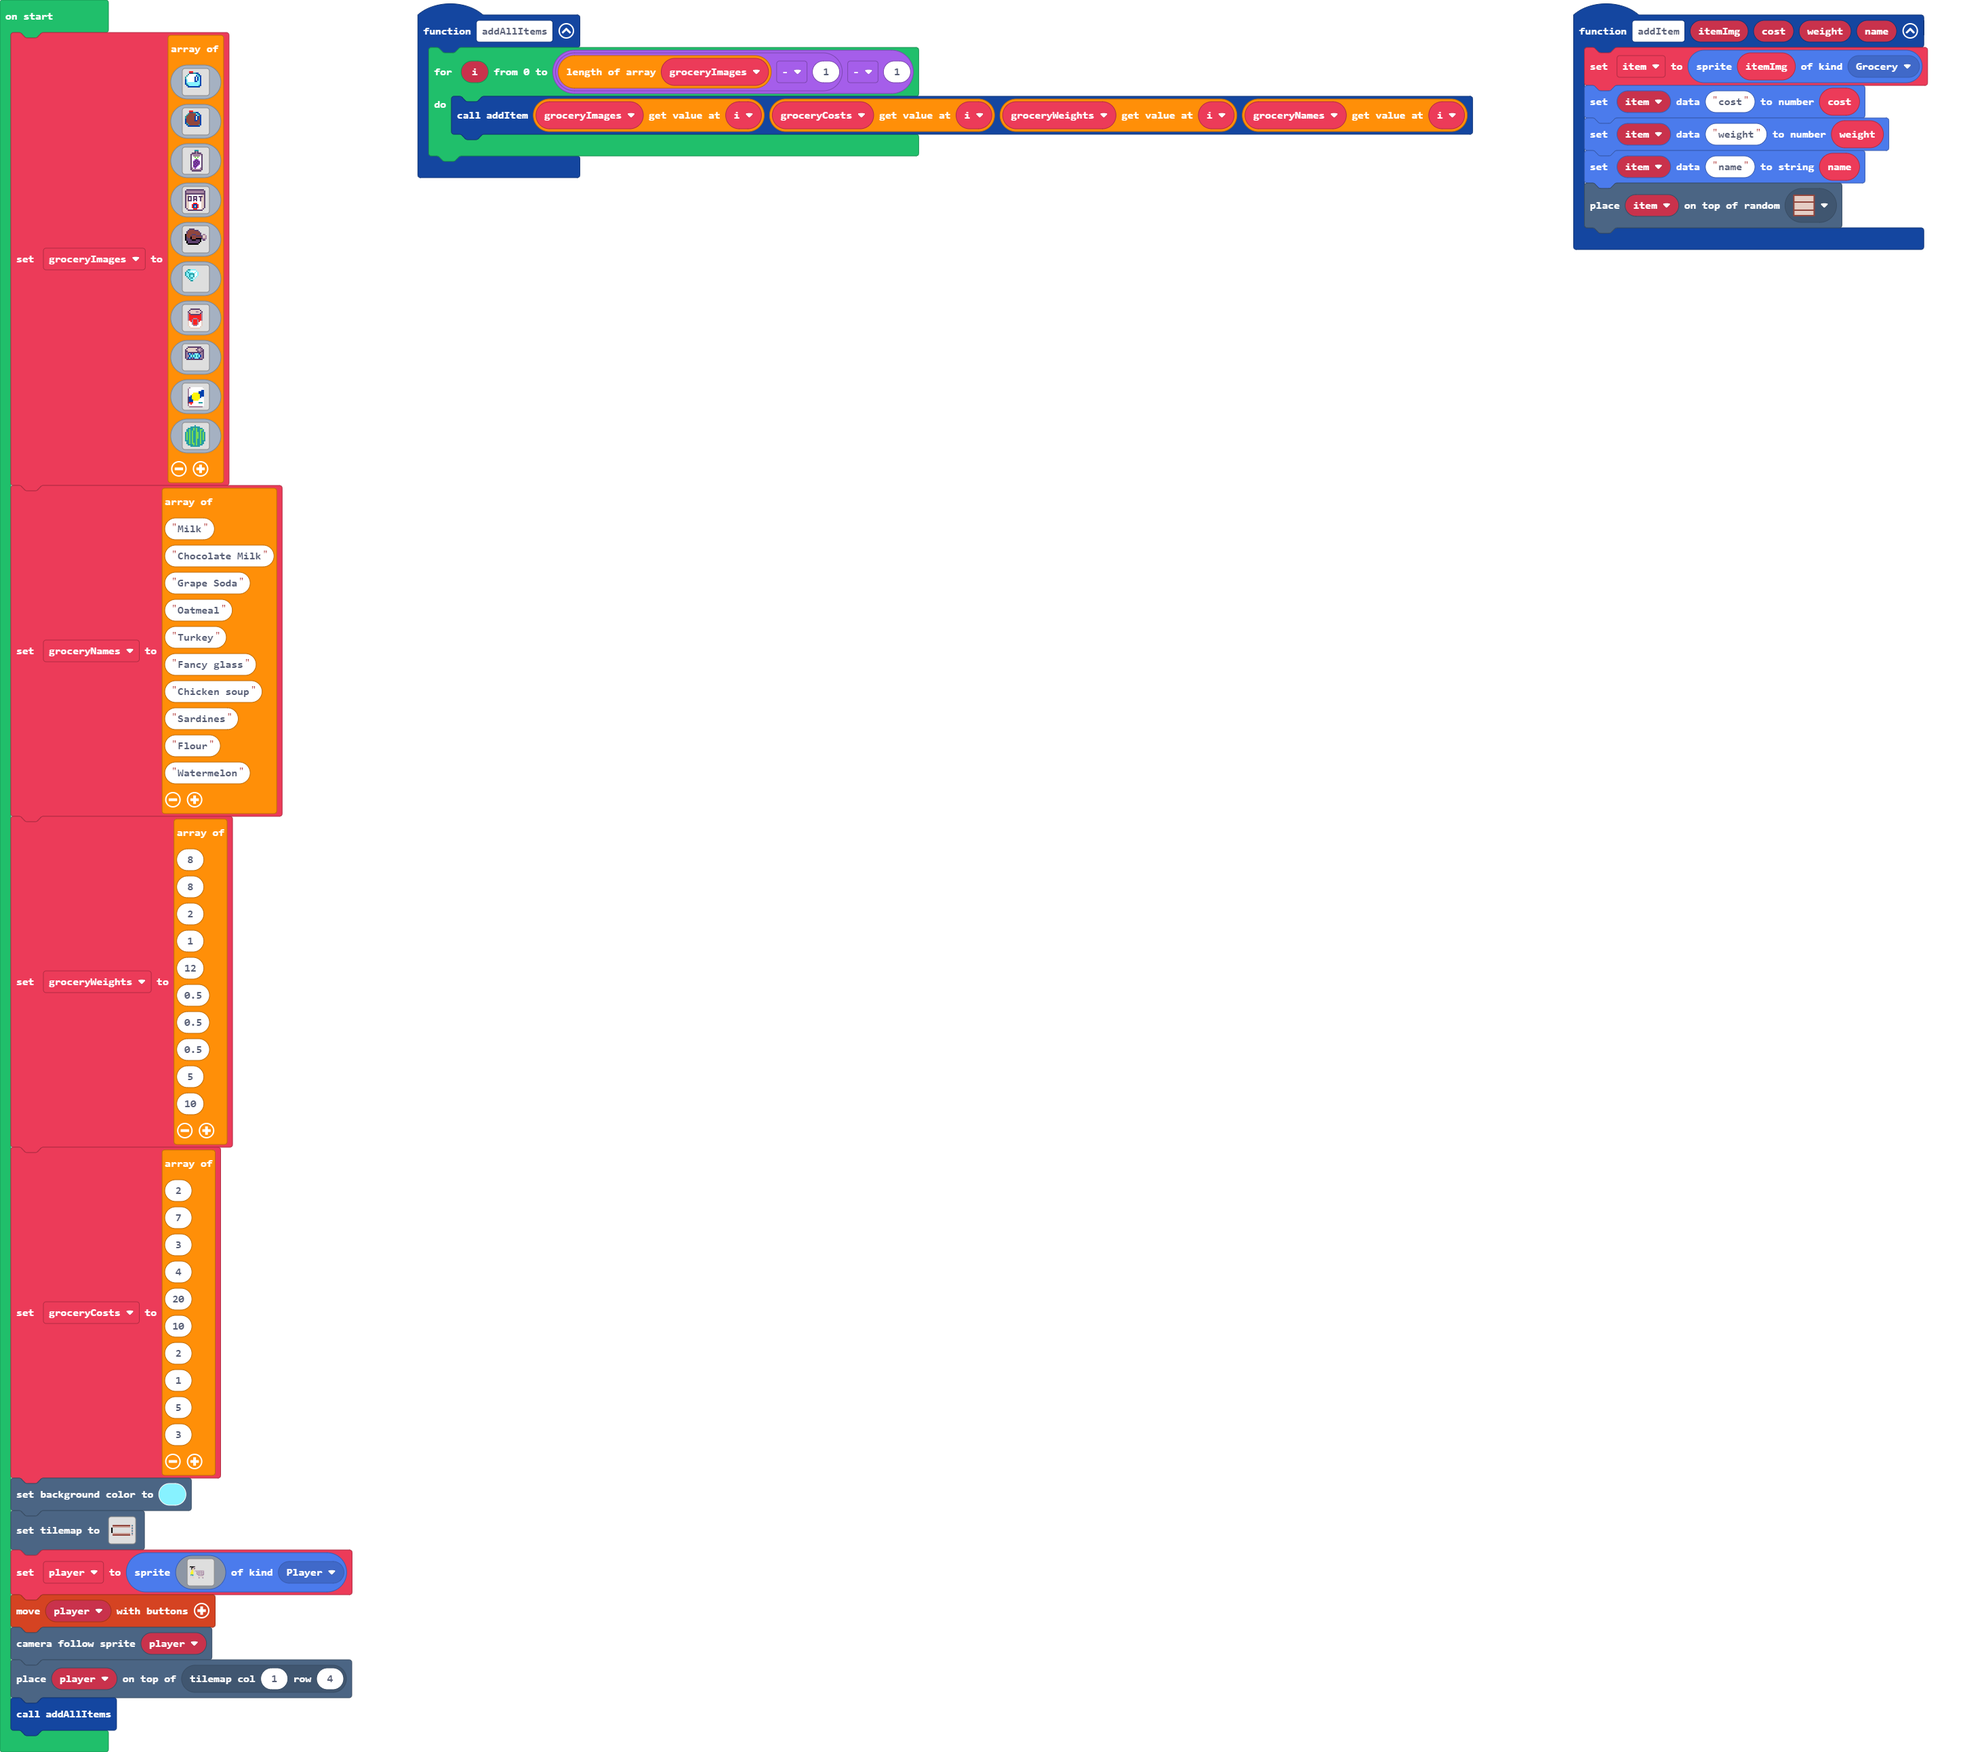
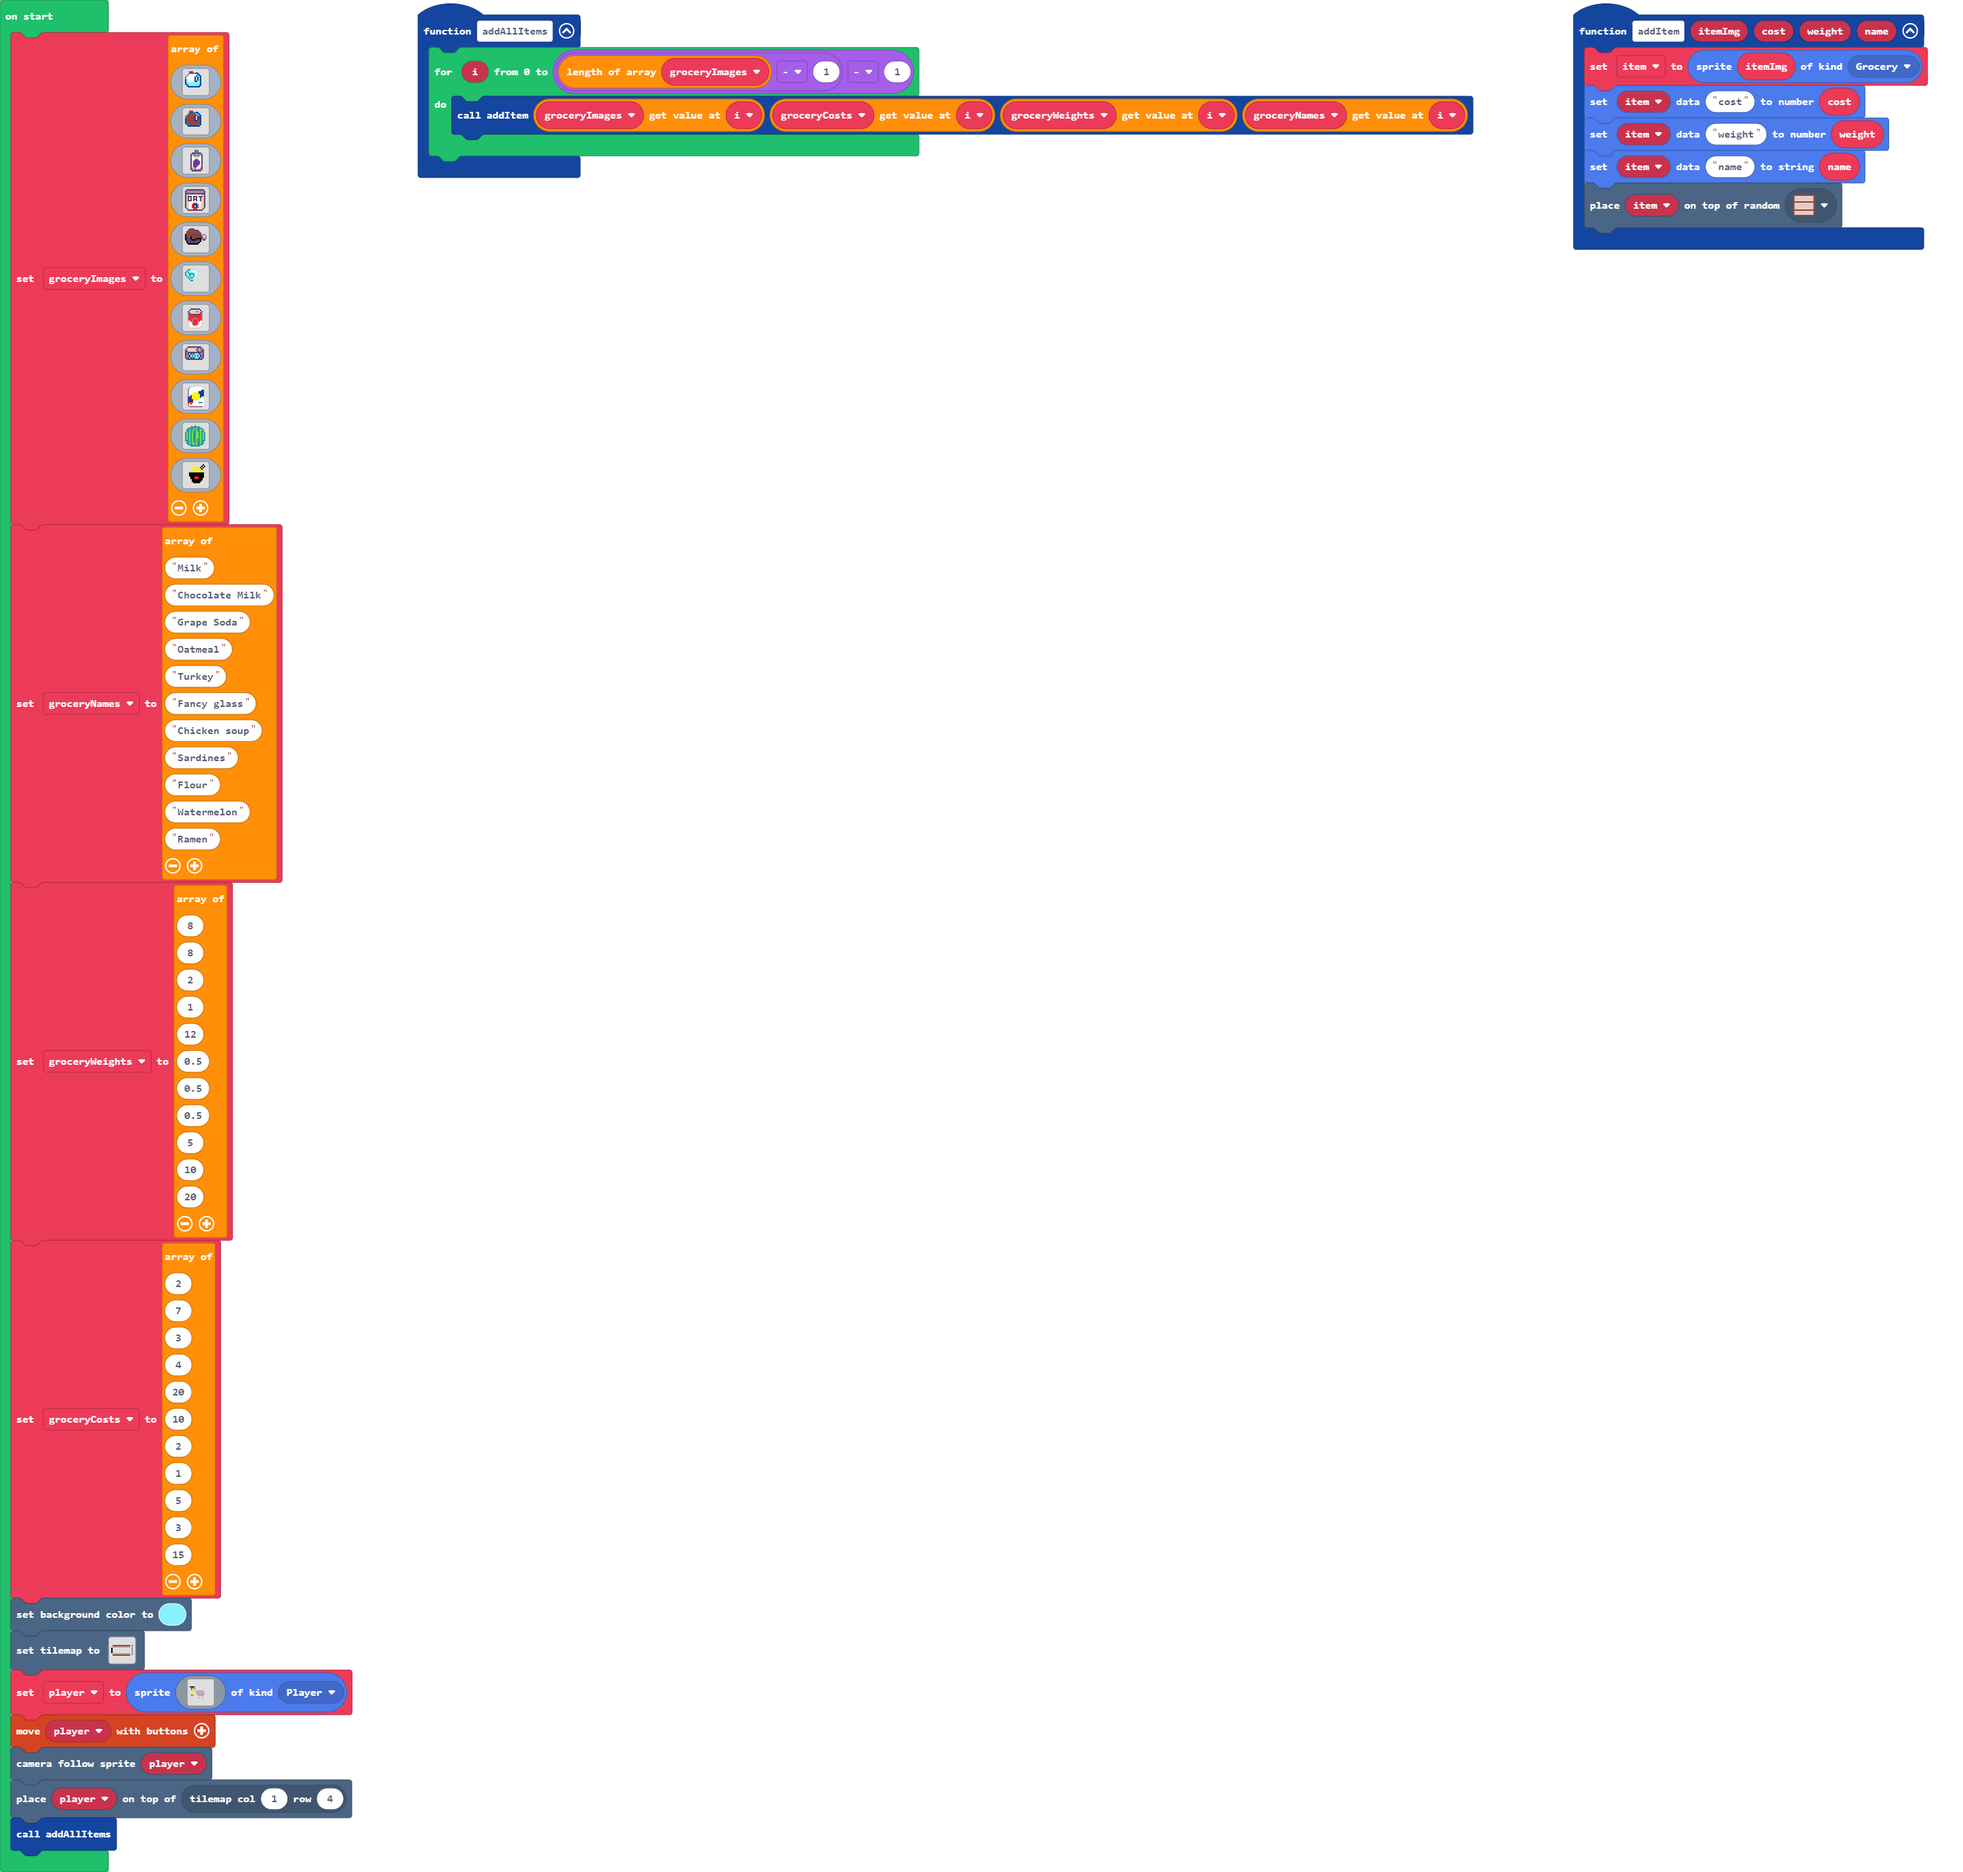
added ramen

diff --git a/main.ts b/main.ts
@@ -199,6 +199,24 @@ img`
     . 6 6 7 6 7 7 6 7 6 6 7 6 6 . . 
     . . 6 6 6 6 7 6 7 6 6 6 6 . . . 
     . . . . 6 6 6 6 6 6 6 . . . . . 
+    `,
+img`
+    . . . . . . . . . . . . . f . . 
+    . . . . . . 5 5 . . . . f . f . 
+    . . . . . . 5 5 d 5 5 f . f . . 
+    . . . . . 5 5 5 5 5 5 5 f . . . 
+    . . . . d d 5 d 5 d 5 d 5 . . . 
+    . . . 5 d 5 5 5 d 5 5 5 5 5 . . 
+    . . . f f f f f f f f f f f . . 
+    . . . f f f f f f f f f f f . . 
+    . . . f f f f f f f f f f f . . 
+    . . . . f f f 2 2 2 f f f f . . 
+    . . . . f f f 2 2 2 f f f . . . 
+    . . . . . f f f f f f f f . . . 
+    . . . . . f f f f f f f . . . . 
+    . . . . . . f f f f f . . . . . 
+    . . . . . . . . . . . . . . . . 
+    . . . . . . . . . . . . . . . . 
     `
 ]
 groceryNames = [
@@ -211,7 +229,8 @@ groceryNames = [
 "Chicken soup",
 "Sardines",
 "Flour",
-"Watermelon"
+"Watermelon",
+"Ramen"
 ]
 groceryWeights = [
 8,
@@ -223,7 +242,8 @@ groceryWeights = [
 0.5,
 0.5,
 5,
-10
+10,
+20
 ]
 groceryCosts = [
 2,
@@ -235,7 +255,8 @@ groceryCosts = [
 2,
 1,
 5,
-3
+3,
+15
 ]
 scene.setBackgroundColor(9)
 tiles.setTilemap(tilemap`level`)
